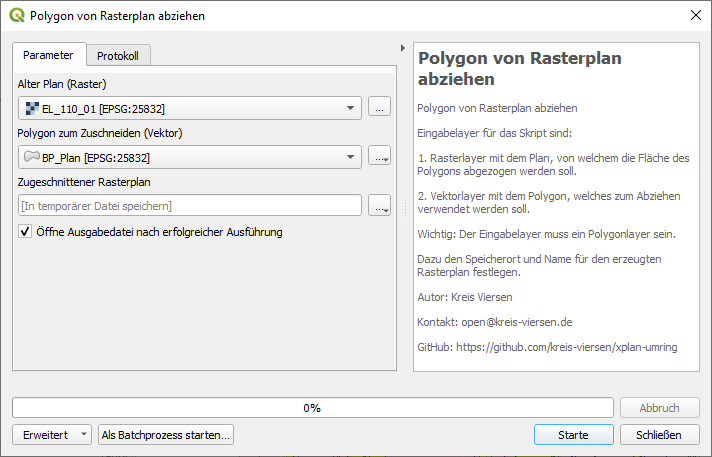
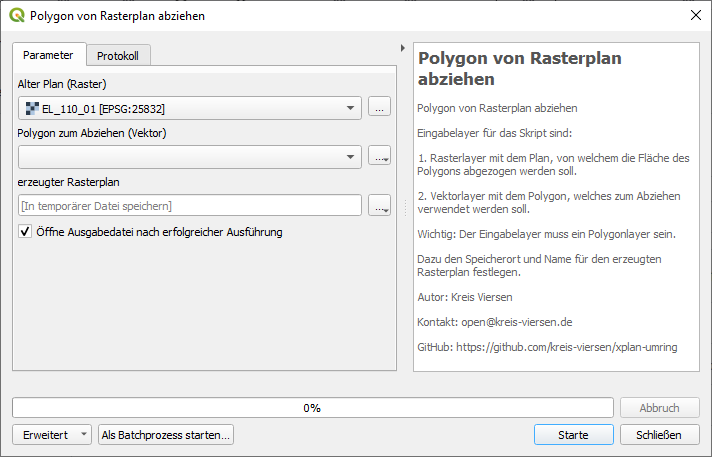
Improved naming

Changed region(s): [[0.0309, 0.337, 0.2163, 0.4289], [0.0927, 0.2757, 0.2781, 0.3063], [0.7416, 0.9803, 0.7725, 1.0]]

diff --git a/xplan_umring_algorithm_difference_raster.py b/xplan_umring_algorithm_difference_raster.py
@@ -82,8 +82,8 @@ class XPlanUmringAlgorithmDifferenceRaster(QgsProcessingAlgorithm):
         )
         self.addParameter(
             QgsProcessingParameterVectorLayer(
-                "polygon_zum_zuschneiden",
-                "Polygon zum Zuschneiden (Vektor)",
+                "polygon_zum_abziehen",
+                "Polygon zum Abziehen (Vektor)",
                 optional=False,
                 types=[QgsProcessing.TypeVectorPolygon],
                 defaultValue=None,
@@ -91,8 +91,8 @@ class XPlanUmringAlgorithmDifferenceRaster(QgsProcessingAlgorithm):
         )
         self.addParameter(
             QgsProcessingParameterRasterDestination(
-                "ZugeschnittenerRasterplan",
-                "Zugeschnittener Rasterplan",
+                "ErzeugterRasterplan",
+                "erzeugter Rasterplan",
                 createByDefault=True,
                 defaultValue=None,
             )
@@ -125,7 +125,7 @@ class XPlanUmringAlgorithmDifferenceRaster(QgsProcessingAlgorithm):
         # Durch maximalen Abstand segmentieren
         alg_params = {
             "DISTANCE": 0.01,
-            "INPUT": parameters["polygon_zum_zuschneiden"],
+            "INPUT": parameters["polygon_zum_abziehen"],
             "OUTPUT": QgsProcessing.TEMPORARY_OUTPUT,
         }
         outputs["DurchMaximalenAbstandSegmentieren"] = processing.run(
@@ -177,7 +177,7 @@ class XPlanUmringAlgorithmDifferenceRaster(QgsProcessingAlgorithm):
             "TARGET_EXTENT": None,
             "X_RESOLUTION": None,
             "Y_RESOLUTION": None,
-            "OUTPUT": parameters["ZugeschnittenerRasterplan"],
+            "OUTPUT": parameters["ErzeugterRasterplan"],
         }
         outputs["RasterAufLayermaskeZuschneiden"] = processing.run(
             "gdal:cliprasterbymasklayer",
@@ -186,7 +186,7 @@ class XPlanUmringAlgorithmDifferenceRaster(QgsProcessingAlgorithm):
             feedback=feedback,
             is_child_algorithm=True,
         )
-        results["ZugeschnittenerRasterplan"] = outputs[
+        results["ErzeugterRasterplan"] = outputs[
             "RasterAufLayermaskeZuschneiden"
         ]["OUTPUT"]
         return results

diff --git a/xplan_umring_algorithm_clip_raster.py b/xplan_umring_algorithm_clip_raster.py
@@ -82,8 +82,8 @@ class XPlanUmringAlgorithmClipRaster(QgsProcessingAlgorithm):
         )
         self.addParameter(
             QgsProcessingParameterVectorLayer(
-                "polygon_zum_abziehen_vektor",
-                "Polygon zum Abziehen (Vektor)",
+                "polygon_zum_zuschneiden_vektor",
+                "Polygon zum Zuschneiden (Vektor)",
                 types=[QgsProcessing.TypeVectorPolygon],
                 defaultValue=None,
             )
@@ -107,7 +107,7 @@ class XPlanUmringAlgorithmClipRaster(QgsProcessingAlgorithm):
         # Durch maximalen Abstand segmentieren
         alg_params = {
             "DISTANCE": 0.01,
-            "INPUT": parameters["polygon_zum_abziehen_vektor"],
+            "INPUT": parameters["polygon_zum_zuschneiden_vektor"],
             "OUTPUT": QgsProcessing.TEMPORARY_OUTPUT,
         }
         outputs["DurchMaximalenAbstandSegmentieren"] = processing.run(
